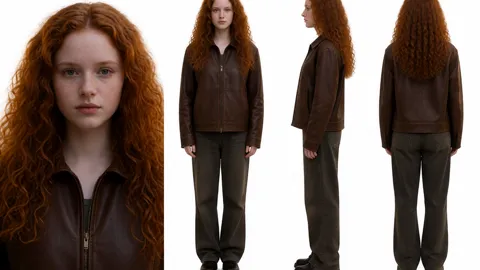
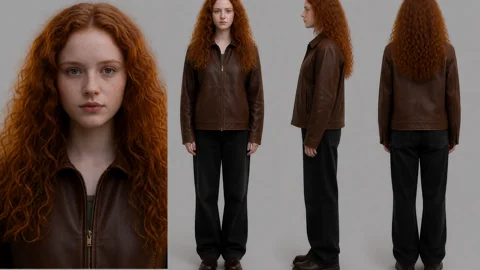
Tabs keep older generations (60 per tab, backfilled from the gallery); no flashing console windows; new README screenshots; Character Sheet on a gray background

diff --git a/frontend/src/estudio/AbaEditar.tsx b/frontend/src/estudio/AbaEditar.tsx
@@ -373,7 +373,7 @@ export default function AbaEditar() {
               <div className="hf-edt-cartoes">
                 {FERRAMENTAS.filter((x) => x.grupo === g).map((x) => (
                   <button key={x.id} className="hf-app hf-ferramenta" data-ativo={f?.id === x.id} aria-pressed={f?.id === x.id} onClick={() => abrir(x)}>
-                    <img src={`/editar/${x.id}.gif?v=3`} alt="" loading="lazy"
+                    <img src={`/editar/${x.id}.gif?v=4`} alt="" loading="lazy"
                       onError={(e) => { (e.currentTarget as HTMLImageElement).style.visibility = 'hidden' }} />
                     <b>{x.nome}{x.api && <small> · API</small>}</b>
                     <span>{x.frase}</span>

diff --git a/backend/app.py b/backend/app.py
@@ -8,6 +8,8 @@ import config
 import asyncio
 import contextlib
 import json
+import sem_janela
+sem_janela.ligar()
 import shutil
 import os
 import pathlib
@@ -613,6 +615,57 @@ class Tarefa:
 
 
 TAREFAS: dict[str, Tarefa] = {}
+# Quantas geracoes concluidas cada aba (cada tipo de pedido) mostra. Antes eram 100 somando
+# TODAS as abas: um dia de testes de video empurrava para fora o Lip Sync de ontem (03/11/2026).
+POR_TIPO, TESTES_MAX = 60, 30
+
+
+def completar_da_galeria() -> None:
+    """Cada aba lista as tarefas da memoria; as antigas saem dela. A galeria guarda todos os
+    arquivos para sempre: o que faltar volta dela como tarefa pronta, ate POR_TIPO por tipo."""
+    ja = {json.loads(s).get("nome") for t in TAREFAS.values() for s in t.imagens}
+    contagem: dict[str, int] = {}
+    for t in TAREFAS.values():
+        if t.estado == "pronto" and not t.pedido.teste:
+            contagem[t.pedido.modelo] = contagem.get(t.pedido.modelo, 0) + 1
+    try:
+        linhas = biblioteca.listar(limite=4000)
+    except Exception:
+        return
+    for l in linhas:  # da mais nova para a mais antiga
+        if l["arquivo"] in ja or contagem.get(l["modelo"], 0) >= POR_TIPO:
+            continue
+        try:
+            pedido = PedidoGeracao.model_validate({**{k: v for k, v in l["parametros"].items()
+                                                      if k in PedidoGeracao.model_fields},
+                                                   "modelo": l["modelo"], "prompt": l["prompt"] or ""})
+        except Exception:
+            continue
+        t = Tarefa(pedido)
+        t.id = f"galeria-{l['id']}"
+        t.estado, t.progresso, t.criada_em = "pronto", 1.0, l["criada_em"]
+        t.prompt_final = l.get("prompt_final") or ""
+        t.largura, t.altura = l.get("largura") or 0, l.get("altura") or 0
+        t.duracao = l.get("duracao") or 0
+        im = {"nome": l["arquivo"], "subpasta": l["subpasta"], "tipo": "output"}
+        if "finalizacao_musica" in l["parametros"]:
+            im["musica"] = l["parametros"]["finalizacao_musica"]
+        t.imagens = [json.dumps(im, ensure_ascii=False)]
+        TAREFAS[t.id] = t
+        ja.add(l["arquivo"])
+        contagem[l["modelo"]] = contagem.get(l["modelo"], 0) + 1
+
+
+def podar_memoria() -> None:
+    """Guarda as ultimas POR_TIPO concluidas de cada tipo (modelo do pedido) e poucas de teste."""
+    vistas: dict[str, int] = {}
+    for t in sorted(TAREFAS.values(), key=lambda t: t.criada_em, reverse=True):
+        if t.estado not in ("pronto", "erro"):
+            continue
+        grupo = "teste" if t.pedido.teste else t.pedido.modelo
+        vistas[grupo] = vistas.get(grupo, 0) + 1
+        if vistas[grupo] > (TESTES_MAX if grupo == "teste" else POR_TIPO):
+            TAREFAS.pop(t.id, None)
 POR_PROMPT_ID: dict[str, Tarefa] = {}
 FILA: asyncio.Queue[Tarefa] = asyncio.Queue()
 OUVINTES: set[WebSocket] = set()
@@ -2139,11 +2192,7 @@ async def operario():
             for pid, item in list(POR_PROMPT_ID.items()):
                 if item is tarefa:
                     POR_PROMPT_ID.pop(pid, None)
-            concluidas = sorted((t for t in TAREFAS.values()
-                                 if t.estado in ("pronto", "erro")),
-                                key=lambda t: t.criada_em, reverse=True)
-            for antiga in concluidas[100:]:
-                TAREFAS.pop(antiga.id, None)
+            podar_memoria()
             biblioteca.podar_tarefas()
             # Esvazia a placa ao fim de CADA geracao, com sucesso ou erro, a
             # pedido do usuario. E uma REDE DE SEGURANCA, nao a causa do
@@ -2622,9 +2671,14 @@ async def iniciar():
     relatorio.ligar_log()
     biblioteca.criar_tabelas()
     biblioteca.podar_tarefas()
-    for dados in biblioteca.carregar_tarefas():
-        tarefa = Tarefa.de_registro(dados)
+    for dados in biblioteca.carregar_tarefas(limite=3000):
+        try:
+            tarefa = Tarefa.de_registro(dados)
+        except Exception:  # registro antigo que nao valida mais: fica so na galeria
+            continue
         TAREFAS[tarefa.id] = tarefa
+    completar_da_galeria()
+    podar_memoria()
     # Assinar novamente a sessão original mantém os eventos de um pedido
     # em execução quando só o servidor do Editor é atualizado/reiniciado.
     try:
@@ -4203,7 +4257,9 @@ async def recorte_avatar(pedido: PedidoRecorteAvatar):
 
 @app.get("/api/tarefas")
 async def tarefas():
-    recentes = sorted(TAREFAS.values(), key=lambda t: t.criada_em, reverse=True)[:50]
+    # Sem corte geral: a memoria ja guarda no maximo POR_TIPO de cada aba (podar_memoria).
+    # Antes eram 50 somando tudo, e uma aba sumia com as geracoes de outra (03/11/2026).
+    recentes = sorted(TAREFAS.values(), key=lambda t: t.criada_em, reverse=True)
     return [t.como_dict() for t in recentes]
 
 

diff --git a/backend/sem_janela.py b/backend/sem_janela.py
@@ -1,0 +1,27 @@
+"""Sem janelas piscando: quando o servidor roda sem console (pythonw, pelo atalho escondido),
+cada ffmpeg, nvidia-smi ou git que ele chama abria uma janela preta que fechava logo em
+seguida (03/11/2026). Aqui todo processo filho ganha CREATE_NO_WINDOW, a menos que o
+chamador ja tenha escolhido as flags. Com console (start.bat), nada muda: os filhos usam
+o console que ja existe e nao abrem janela."""
+
+import subprocess
+import sys
+
+
+def ligar() -> None:
+    if sys.platform != "win32":
+        return
+    try:
+        import ctypes
+        if ctypes.windll.kernel32.GetConsoleWindow():
+            return  # ha console: os filhos herdam e nao piscam
+    except Exception:
+        return
+    original = subprocess.Popen.__init__
+
+    def __init__(self, *args, **kwargs):
+        if not kwargs.get("creationflags"):
+            kwargs["creationflags"] = subprocess.CREATE_NO_WINDOW
+        original(self, *args, **kwargs)
+
+    subprocess.Popen.__init__ = __init__

diff --git a/backend/biblioteca.py b/backend/biblioteca.py
@@ -299,7 +299,7 @@ def carregar_tarefas(limite=100) -> list[dict]:
     return [json.loads(l["registro"]) for l in linhas]
 
 
-def podar_tarefas(limite=500):
+def podar_tarefas(limite=3000):
     with _conectar() as con:
         con.execute("""DELETE FROM tarefas WHERE estado IN ('pronto', 'erro')
             AND id NOT IN (SELECT id FROM tarefas ORDER BY criada_em DESC LIMIT ?)""",
